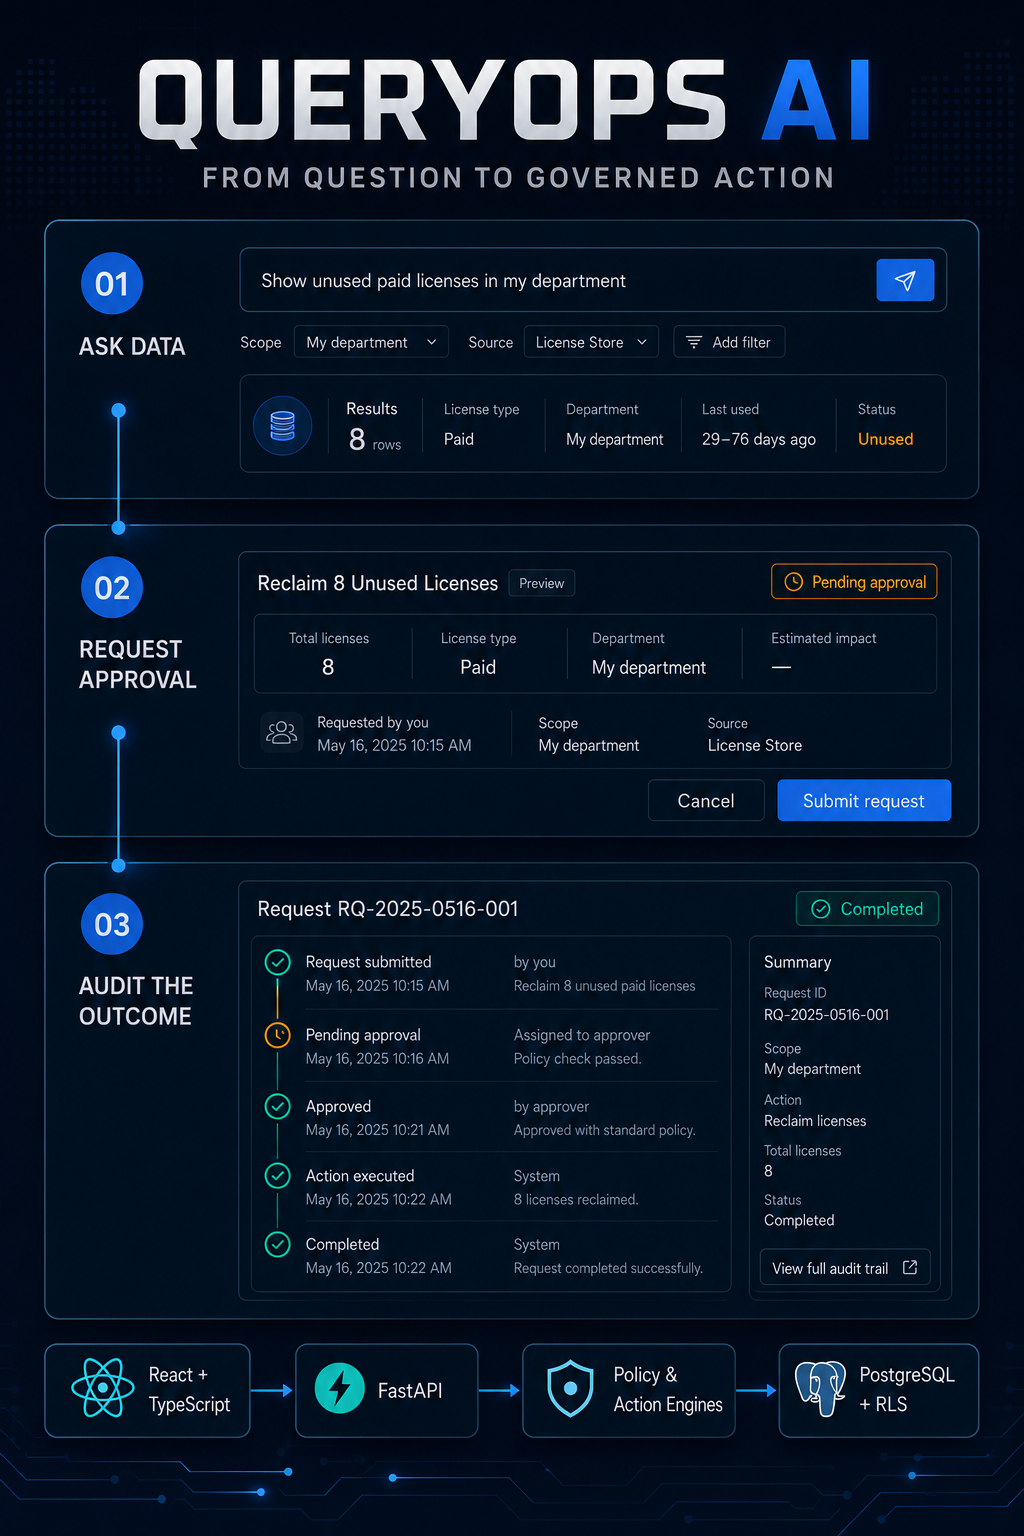
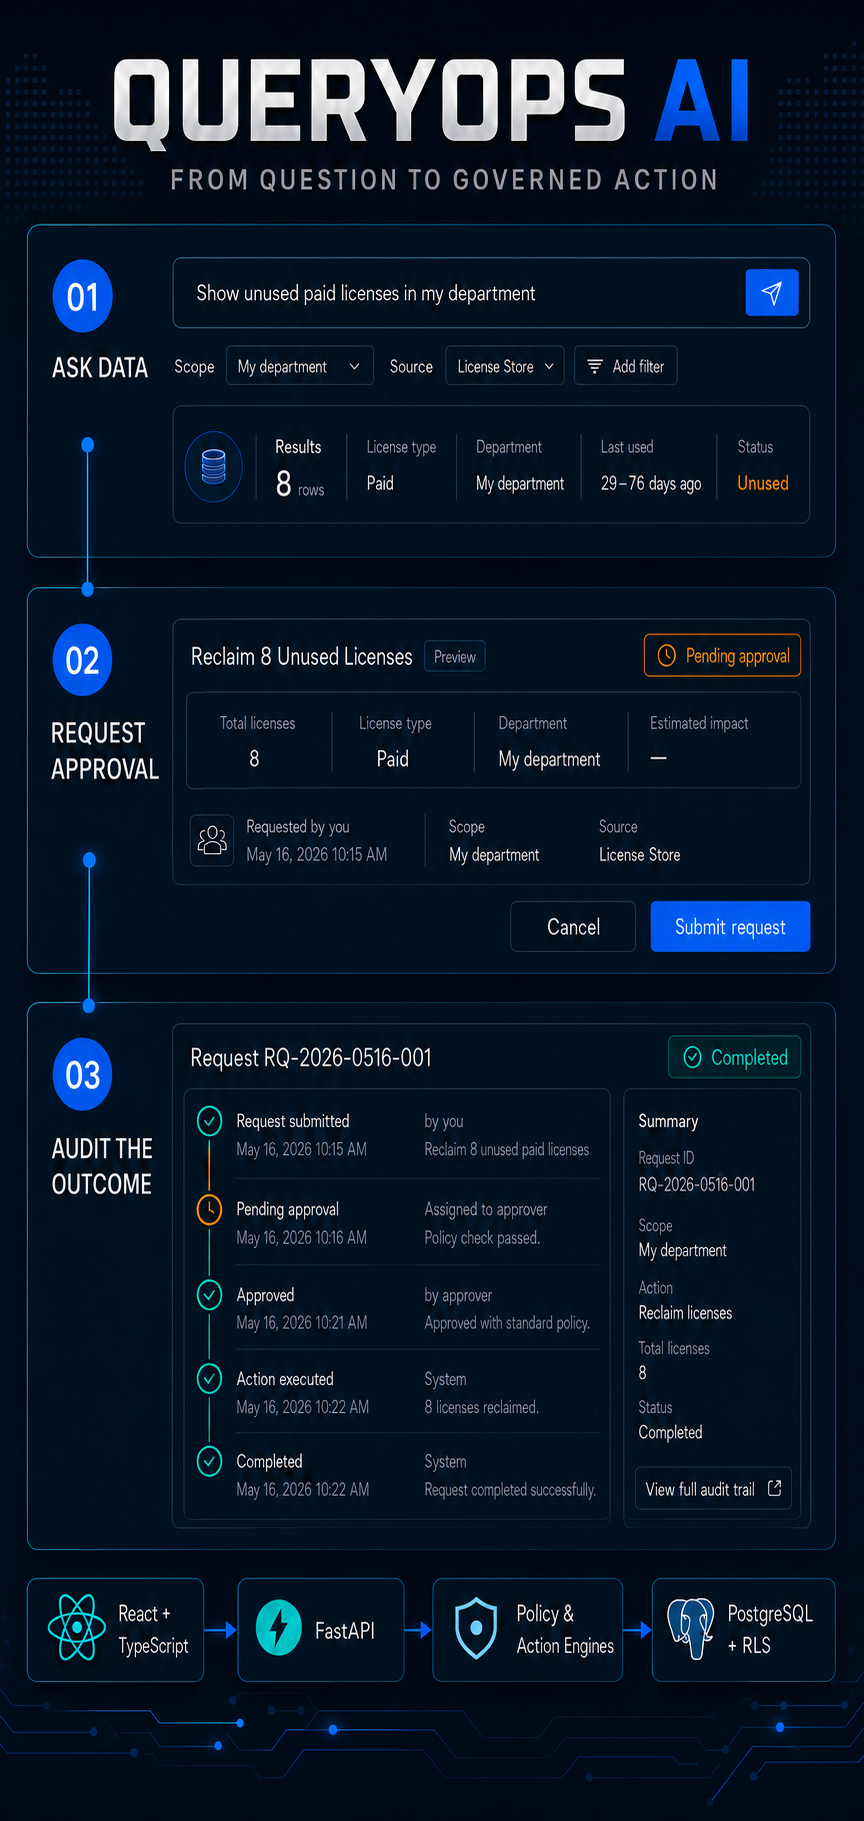
feat: finalize portfolio pre-deployment polish

diff --git a/src/components/projects/ProjectPreviewVisual.tsx b/src/components/projects/ProjectPreviewVisual.tsx
@@ -2,50 +2,19 @@ import type { Project } from "@/types/portfolio";
 import { ProjectPosterPreview } from "@/components/projects/ProjectPosterPreview";
 
 type ProjectPreviewVisualProps = {
-  placeholderLabel: string;
   project: Project;
 };
 
 export function ProjectPreviewVisual({
-  placeholderLabel,
   project,
 }: ProjectPreviewVisualProps) {
-  if (project.poster) {
-    return (
-      <ProjectPosterPreview
-        projectName={project.poster.projectName}
-        posterSrc={project.poster.src}
-        posterAlt={project.poster.alt}
-        posterWidth={project.poster.width}
-        posterHeight={project.poster.height}
-      />
-    );
-  }
-
   return (
-    <div
-      role="img"
-      aria-label={`${project.title}: ${placeholderLabel}`}
-      className="relative mx-auto aspect-[4/3] w-[62%] min-w-[10rem] max-w-[15rem] overflow-hidden rounded-[0.25rem] border border-ink/65 bg-surface/65 shadow-card sm:w-[52%] lg:w-[48%]"
-    >
-      <div aria-hidden="true" className="pointer-events-none absolute inset-0">
-        <div className="flex h-7 items-center gap-1.5 border-b border-ink/55 px-3">
-          <span className="size-1.5 rounded-full bg-ink/80" />
-          <span className="size-1.5 rounded-full bg-ink/80" />
-          <span className="size-1.5 rounded-full bg-ink/80" />
-        </div>
-
-        <div className="absolute top-[31%] left-1/2 aspect-[1.25/1] w-[43%] -translate-x-1/2 rounded-[0.375rem] border border-dashed border-ink/55">
-          <span className="absolute top-[18%] left-[62%] size-2.5 rounded-full border border-ink/65" />
-          <span className="absolute bottom-[24%] left-[20%] h-px w-[36%] origin-left -rotate-45 bg-ink/70" />
-          <span className="absolute right-[20%] bottom-[24%] h-px w-[36%] origin-right rotate-45 bg-ink/70" />
-          <span className="absolute right-[17%] bottom-[24%] h-px w-[32%] origin-right -rotate-45 bg-ink/70" />
-        </div>
-      </div>
-
-      <p className="absolute inset-x-3 bottom-[9%] text-center text-[0.6875rem] font-medium text-ink sm:text-xs">
-        {placeholderLabel}
-      </p>
-    </div>
+    <ProjectPosterPreview
+      projectName={project.poster.projectName}
+      posterSrc={project.poster.src}
+      posterAlt={project.poster.alt}
+      posterWidth={project.poster.width}
+      posterHeight={project.poster.height}
+    />
   );
 }

diff --git a/src/content/portfolio.ts b/src/content/portfolio.ts
@@ -12,7 +12,7 @@ export const siteConfig = {
   headline:
     "I turn useful ideas into practical products that make people's work easier.",
   supportingText:
-    "Turning complex ideas into clear, practical, and well-crafted products through a thoughtful, end-to-end approach.",
+    "I work across frontend, backend, data, and AI-assisted systems—from reliable services and database design to polished user experiences.",
   primaryCta: {
     label: "View My Work",
     href: "#projects",
@@ -46,12 +46,10 @@ export const projectsSectionContent = {
   heading: "Selected Work",
   intro:
     "A selection of products I've built across web, mobile, data, automation, and external integrations.",
-  placeholderLabel: "Screenshot coming soon",
   actionLabel: "View Project",
   modal: {
     closeLabel: "Close project details",
     featuredProjectLabel: "Featured project",
-    temporaryLabel: "Temporary content",
     previewLabel: "Product preview",
     storyLabel: "Project story",
     problemLabel: "Problem",
@@ -84,8 +82,8 @@ const checkItProductPoster = {
   projectName: "CheckIT",
   src: "/images/project-posters/checkit-product-poster.png",
   alt: "CheckIT product poster",
-  width: 941,
-  height: 1672,
+  width: 1024,
+  height: 1536,
 } as const;
 
 const whatsappBotProductPoster = {
@@ -100,20 +98,16 @@ export const coreToolkitContent = {
   heading: "Core Toolkit",
   supportingText: "A focused stack I use across products.",
   items: [
-    { label: "React", icon: "react" },
     { label: "TypeScript", icon: "typescript" },
+    { label: "React", icon: "react" },
+    { label: "Next.js", icon: "nextjs" },
     { label: "JavaScript", icon: "javascript" },
     { label: "Python", icon: "python" },
-    { label: "Node.js", icon: "nodejs" },
     { label: "FastAPI", icon: "fastapi" },
-    { label: "Fastify", icon: "fastify" },
+    { label: "Node.js", icon: "nodejs" },
     { label: "PostgreSQL", icon: "postgresql" },
-    { label: "Supabase", icon: "supabase" },
-    { label: "Tailwind CSS", icon: "tailwind" },
     { label: "Docker", icon: "docker" },
-    { label: "Git", icon: "git" },
-    { label: "GitHub", icon: "github" },
-    { label: "OpenAI API", icon: "openai" },
+    { label: "Git & GitHub", icon: "github" },
   ] as const satisfies readonly ToolkitItem[],
 } as const;
 
@@ -264,7 +258,7 @@ export const projects = [
     number: "01",
     title: "QueryOps AI",
     subtitle: "IT Operations · Data Governance",
-    role: "Founder, Product Lead & Full-Stack Developer",
+    role: "Solo Full-Stack Developer",
     duration: "May 2026 – Present",
     status: "Active Development",
     visibility: "Public",
@@ -287,15 +281,11 @@ export const projects = [
     ],
     builtAround:
       "Controlled access, reliable data exploration, and safe operational actions.",
-    image: {
-      src: "/images/projects/queryops/cover.png",
-      alt: "QueryOps AI dashboard preview",
-    },
     poster: queryOpsProductPoster,
     caseStudy: {
       projectLabel: "Full-Stack Project",
       facts: [
-        "Personal full-stack project",
+        "Solo Full-Stack Developer",
         "IT Operations / data governance",
         "React, TypeScript, FastAPI, PostgreSQL",
       ],
@@ -359,7 +349,8 @@ export const projects = [
           "Approvals",
           "Audit trail",
         ],
-        note: "Scoped read-only queries and controlled operational actions are enforced server-side.",
+        scope:
+          "Scoped read-only queries and controlled operational actions are enforced server-side.",
       },
     },
     links: [
@@ -397,10 +388,6 @@ export const projects = [
       "Learning Flow",
     ],
     builtAround: "Adaptive practice and clearer learning workflows.",
-    image: {
-      src: "/images/projects/checkit/cover.png",
-      alt: "CheckIT mobile product preview",
-    },
     poster: checkItProductPoster,
     caseStudy: {
       projectLabel: "Product & Technical Leadership",
@@ -514,10 +501,6 @@ export const projects = [
     ],
     builtAround:
       "Low-friction scheduling without silently guessing when important details are unclear.",
-    image: {
-      src: "/images/projects/whatsapp-bot/calendar-bot-hero.webp",
-      alt: "Offline WhatsApp calendar bot demo interface",
-    },
     poster: whatsappBotProductPoster,
     caseStudy: {
       projectLabel: "Prototype",

diff --git a/src/types/portfolio.ts b/src/types/portfolio.ts
@@ -77,7 +77,6 @@ export type ProjectCaseStudy = {
     readonly editorial?: ProjectEditorialPreview;
   };
   readonly story: {
-    readonly isPlaceholder?: boolean;
     readonly problem: {
       readonly body: string;
     };
@@ -113,29 +112,21 @@ export type Project = {
   readonly technologies: readonly string[];
   readonly architectureTrace: readonly string[];
   readonly builtAround: string;
-  readonly image: {
-    readonly src: string;
-    readonly alt: string;
-  };
-  readonly poster?: ProjectPoster;
+  readonly poster: ProjectPoster;
   readonly caseStudy: ProjectCaseStudy;
   readonly links: readonly ProjectLink[];
 };
 
 export type ToolkitIcon =
   | "react"
-  | "typescript"
   | "javascript"
+  | "typescript"
+  | "nextjs"
   | "python"
   | "nodejs"
   | "fastapi"
-  | "fastify"
   | "postgresql"
-  | "supabase"
-  | "tailwind"
   | "docker"
-  | "git"
-  | "openai"
   | "github";
 
 export type ToolkitItem = {

diff --git a/src/components/projects/CoreToolkit.tsx b/src/components/projects/CoreToolkit.tsx
@@ -2,19 +2,15 @@ import type { IconType } from "react-icons";
 import {
   SiDocker,
   SiFastapi,
-  SiFastify,
-  SiGit,
   SiGithub,
   SiJavascript,
+  SiNextdotjs,
   SiNodedotjs,
   SiPostgresql,
   SiPython,
   SiReact,
-  SiSupabase,
-  SiTailwindcss,
   SiTypescript,
 } from "react-icons/si";
-import { TbBrandOpenai } from "react-icons/tb";
 
 import styles from "@/components/projects/CoreToolkit.module.css";
 import { coreToolkitContent } from "@/content/portfolio";
@@ -25,19 +21,15 @@ const toolkitDescriptionId = "core-toolkit-description";
 
 const toolkitIcons = {
   react: SiReact,
-  typescript: SiTypescript,
   javascript: SiJavascript,
+  typescript: SiTypescript,
+  nextjs: SiNextdotjs,
   python: SiPython,
   nodejs: SiNodedotjs,
   fastapi: SiFastapi,
-  fastify: SiFastify,
   postgresql: SiPostgresql,
-  supabase: SiSupabase,
-  tailwind: SiTailwindcss,
   docker: SiDocker,
-  git: SiGit,
   github: SiGithub,
-  openai: TbBrandOpenai,
 } satisfies Record<ToolkitIcon, IconType>;
 
 type ToolkitListProps = {

diff --git a/src/app/layout.tsx b/src/app/layout.tsx
@@ -77,17 +77,11 @@ const personStructuredData = {
   "@type": "Person",
   name: siteConfig.name,
   jobTitle: siteConfig.role,
-  alumniOf: {
+  description:
+    "Full-Stack Developer and Computer Science student at Holon Institute of Technology, with expected graduation in August 2026.",
+  affiliation: {
     "@type": "CollegeOrUniversity",
     name: "Holon Institute of Technology",
-  },
-  hasCredential: {
-    "@type": "EducationalOccupationalCredential",
-    credentialCategory: "B.Sc. in Computer Science",
-    recognizedBy: {
-      "@type": "CollegeOrUniversity",
-      name: "Holon Institute of Technology",
-    },
   },
   sameAs: [siteConfig.githubUrl, siteConfig.linkedinUrl],
 };

diff --git a/src/components/projects/ProjectDetails.tsx b/src/components/projects/ProjectDetails.tsx
@@ -107,14 +107,7 @@ export function ProjectDetails({ project }: ProjectDetailsProps) {
         </div>
 
         <div className="border-y border-border px-5 py-7 sm:px-10 lg:border-x lg:border-y-0 lg:px-8 lg:py-6">
-          <div className="flex flex-wrap items-center justify-between gap-3">
-            <StoryHeading>{modal.buildLabel}</StoryHeading>
-            {story.isPlaceholder ? (
-              <span className="text-[0.625rem] font-semibold tracking-[0.1em] text-muted uppercase">
-                {modal.temporaryLabel}
-              </span>
-            ) : null}
-          </div>
+          <StoryHeading>{modal.buildLabel}</StoryHeading>
 
           {story.build.body ? (
             <p className="mt-3 max-w-[40rem] text-base leading-7 text-ink/82 lg:text-[0.95rem] lg:leading-6">
@@ -122,7 +115,7 @@ export function ProjectDetails({ project }: ProjectDetailsProps) {
             </p>
           ) : null}
 
-          {!story.isPlaceholder && story.build.highlights?.length ? (
+          {story.build.highlights?.length ? (
             <ul className="mt-3 grid gap-2 text-[0.8125rem] leading-5 text-ink/80">
               {story.build.highlights.map((highlight) => (
                 <li key={highlight} className="flex gap-2.5">

diff --git a/src/components/projects/ProjectPosterPreview.tsx b/src/components/projects/ProjectPosterPreview.tsx
@@ -57,6 +57,7 @@ export function ProjectPosterPreview({
   const triggerRef = useRef<HTMLButtonElement>(null);
   const dialogRef = useRef<HTMLDialogElement>(null);
   const closeButtonRef = useRef<HTMLButtonElement>(null);
+  const openedWithKeyboardRef = useRef(false);
   const closeTimerRef = useRef<number | null>(null);
   const scrollPositionRef = useRef(0);
   const bodyStyleSnapshotRef = useRef<BodyStyleSnapshot | null>(null);
@@ -117,11 +118,12 @@ export function ProjectPosterPreview({
     root.style.scrollBehavior = previousScrollBehavior;
   }, []);
 
-  const openPoster = () => {
+  const openPoster = (event: MouseEvent<HTMLButtonElement>) => {
     if (isOpen) {
       return;
     }
 
+    openedWithKeyboardRef.current = event.detail === 0;
     lockPageScroll();
     setIsOpen(true);
   };
@@ -164,7 +166,11 @@ export function ProjectPosterPreview({
     unlockPageScroll();
 
     requestAnimationFrame(() => {
-      triggerRef.current?.focus({ preventScroll: true });
+      if (openedWithKeyboardRef.current) {
+        triggerRef.current?.focus({ preventScroll: true });
+      } else {
+        triggerRef.current?.blur();
+      }
     });
   };
 

diff --git a/src/components/projects/CoreToolkit.module.css b/src/components/projects/CoreToolkit.module.css
@@ -95,7 +95,7 @@
 
   .group {
     display: grid;
-    grid-template-columns: repeat(7, 5.25rem);
+    grid-template-columns: repeat(5, 5.25rem);
     grid-template-rows: repeat(2, 5.25rem);
     gap: 0.5rem;
     padding-right: var(--page-gutter);

diff --git a/src/content/site-metadata.ts b/src/content/site-metadata.ts
@@ -1,7 +1,7 @@
 export const siteMetadata = {
   title: "Daniel Shatzov — Full-Stack Developer",
   description:
-    "Portfolio of Daniel Shatzov, a computer science graduate and full-stack developer building thoughtful AI-powered products and practical web applications.",
+    "Portfolio of Daniel Shatzov, a Computer Science student and full-stack developer building thoughtful AI-assisted products and practical web applications.",
   language: "en",
   locale: "en_US",
   socialImage: {

diff --git a/src/components/projects/ProjectPreview.tsx b/src/components/projects/ProjectPreview.tsx
@@ -40,7 +40,6 @@ export function ProjectPreview({ index, project }: ProjectPreviewProps) {
           <div className="flex min-h-[15rem] items-center justify-center sm:min-h-[17rem] lg:min-h-[16.5rem]">
             <ProjectPreviewVisual
               project={project}
-              placeholderLabel={projectsSectionContent.placeholderLabel}
             />
           </div>
         </Reveal>

diff --git a/README.md b/README.md
@@ -31,6 +31,8 @@ The site uses a warm, handmade editorial visual direction while keeping the work
 
 ## Local development
 
+Use Node.js 22 (see `.nvmrc`) and npm for local development.
+
 1. Clone the repository.
 2. Install dependencies:
 